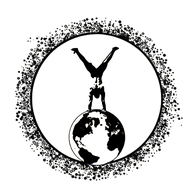
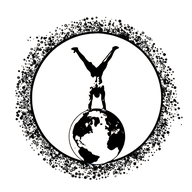
Add files via upload

Changed region(s): [[0.0625, 0.0938, 0.9688, 0.9375]]

diff --git a/index.html b/index.html
@@ -6,11 +6,11 @@
     <meta name="theme-color" content="#E6E1D6" />
     <title>Life Athletics</title>
     <!-- Favicon — purpose-built sizes so the mark fills the frame and reads crisp -->
-    <link rel="icon" type="image/png" sizes="32x32" href="/favicon-32.png?v=7" />
-    <link rel="icon" type="image/png" sizes="512x512" href="/favicon-mark.png?v=7" />
-    <link rel="apple-touch-icon" href="/apple-touch-icon.png?v=7" />
-    <link rel="icon" type="image/png" sizes="192x192" href="/icon-192.png?v=7" />
-    <link rel="manifest" href="/manifest.json?v=7" />
+    <link rel="icon" type="image/png" sizes="32x32" href="/favicon-32.png?v=8" />
+    <link rel="icon" type="image/png" sizes="512x512" href="/favicon-mark.png?v=8" />
+    <link rel="apple-touch-icon" href="/apple-touch-icon.png?v=8" />
+    <link rel="icon" type="image/png" sizes="192x192" href="/icon-192.png?v=8" />
+    <link rel="manifest" href="/manifest.json?v=8" />
     <link rel="preconnect" href="https://fonts.googleapis.com" />
     <link rel="preconnect" href="https://fonts.gstatic.com" crossorigin />
     <link